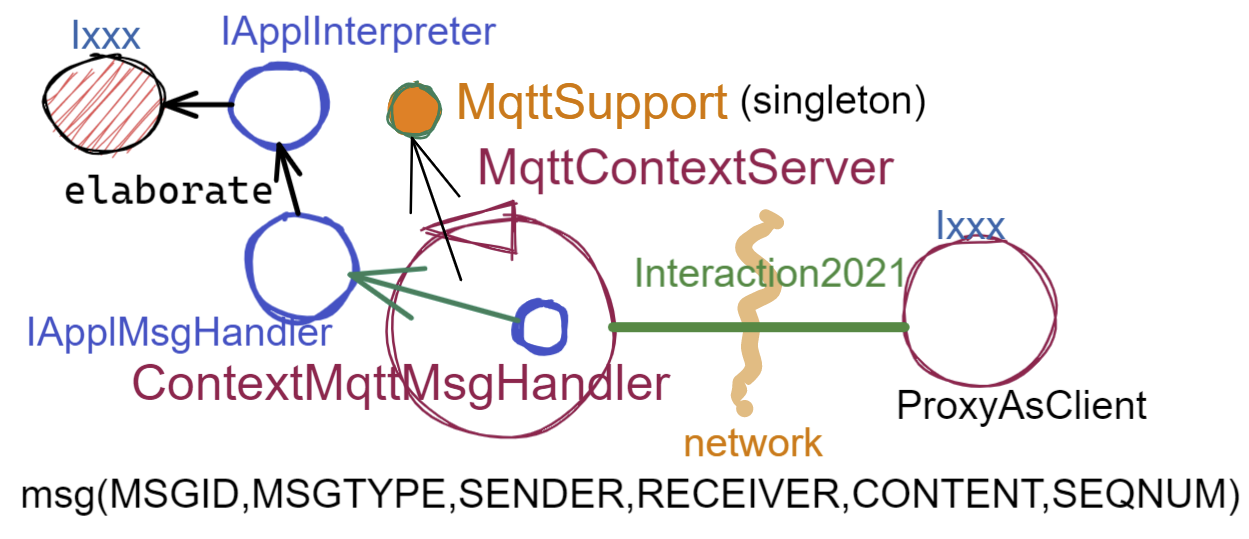
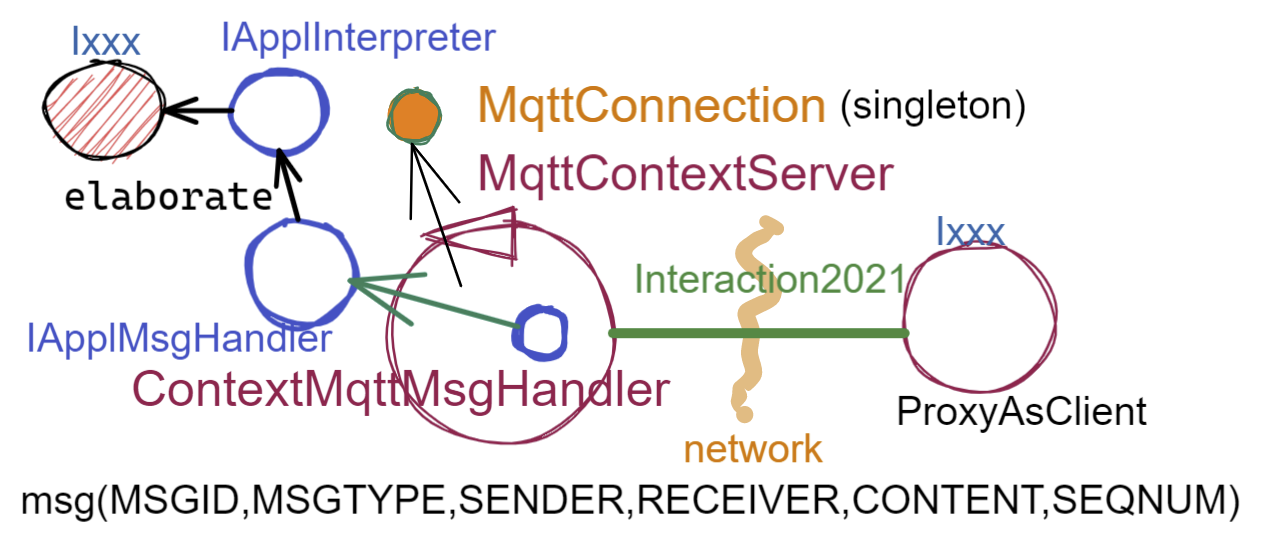
verso framework

Changed region(s): [[0.0, 0.0297, 0.9992, 0.9796], [0.0312, 0.0297, 0.2498, 0.4156], [0.1873, 0.4156, 0.2186, 0.564]]

diff --git a/it.unibo.enablerCleanArch/src/it/unibo/enablerCleanArch/supports/context/MqttContextServer.java b/it.unibo.enablerCleanArch/src/it/unibo/enablerCleanArch/supports/context/MqttContextServer.java
@@ -17,13 +17,12 @@ private String topic;
 
 	public MqttContextServer(String clientId, String topic) {
 		this.clientId = clientId;
-		this.topic    = topic;
-		ctxMsgHandler = new ContextMqttMsgHandler("ctxH");
-		
+		this.topic    = topic;		
 		ColorsOut.out("MqttContextServer CREATED");
 	}
 	@Override
 	public void activate() {
+		ctxMsgHandler = new ContextMqttMsgHandler("ctxH");
 		mqtt = MqttConnection.createSupport( clientId ); //, topic 
 		mqtt.connectToBroker(clientId,  RadarSystemConfig.mqttBrokerAddr);
 		//mqtt.subscribe(clientId, topic, ctxMsgHandler);   //?????

diff --git a/it.unibo.issLabStart/userDocs/iss22/source/VersoUnFramework.rst b/it.unibo.issLabStart/userDocs/iss22/source/VersoUnFramework.rst
@@ -56,6 +56,8 @@ che cambiano l'impostazione logica della interazione.
 
 In ogni caso, dovremo costruire le nostre astrazioni utilizzando le librerie disponibili.
 
+.. _librerieprotocolli:
+
 ------------------------------------
 Liberie di riferimento
 ------------------------------------
@@ -399,13 +401,61 @@ Il metodo di invio di una risposta è già realizzato dalla infrastruutura CoAP 
 	}
 
 
+Una volta realizzati i nuovi supporti per :ref:`Interaction2021<Interaction2021>`, possiamo
+fare in modo che la classe dei Proxy crei un supporto diverso per ogni protocollo, utilizzando
+il tipo appropriato di connessione.
+ 
 
+
+.. _ProxyAsClientEsteso:
+
+--------------------------------------------------------
+Estensione della classe :ref:`ProxyAsClient`
+--------------------------------------------------------
+
+.. code:: java
+
+  public class ProxyAsClient {
+  private Interaction2021 conn; 
+    public ProxyAsClient( 
+      String name, String host, String entry, ProtocolType protocol ){ 
+        ... 
+        setConnection(host, entry, protocol);
+      }  
+   
+Il metodo ``setConnection`` invocato dal costruttore crea un supporto diverso per ogni protocollo, utilizzando
+il tipo appropriato di connessione che implementa :ref:`Interaction2021<Interaction2021>`.
+
+
+.. code:: java
+
+  protected void setConnection( String host, String entry, 
+                ProtocolType protocol  ) throws Exception {
+    switch( protocol ) {
+    case tcp : {
+      int port = Integer.parseInt(entry);
+      int numOfAttempts = 10;
+      conn = TcpClientSupport.connect(host,port,numOfAttempts);  
+      break;
+    }
+    case coap : {
+      conn = new CoapConnection( host,entry );//entry is uri path
+      break;
+    }
+    case mqtt : {
+      conn = MqttConnection.getSupport();					
+      break;
+    }	
+    default :{
+      ColorsOut.outerr(name + " | Protocol unknown");
+    }
+  }
 
 ---------------------------------
 I ContextServer
 ---------------------------------
 
-Poichè dovremo definire un ContextServer per ogni protocollo, faccaimo in modo che ciascuno di essi
+Poichè dovremo definire un ContextServer per ogni protocollo, facciamo in modo che ciascuno di essi
 rispetti uno stesso contratto, che imponga metodi per attivare/disattivare il server e per
 aggiungere/rimuovere componenti di tipo :ref:`IApplMsgHandler<IApplMsgHandler>`:
 
@@ -492,7 +542,7 @@ IContextMsgHandler
 +++++++++++++++++++++++++++++++
 
 Ogni ContextServer si avvale di un gestore di sistema dei messaggi  come il 
-:ref:`ContextMsgHandler<ContextMsgHandler>` già definito per il TCP.
+:ref:`ContextMsgHandler<ContextMsgHandler>`.
 
 Introduciamo anche per questo gestore un contratto che imponga la implementazione di metodi per
 aggiungere/rimuovere oggetti applicativi di tipo :ref:`IApplMsgHandler<IApplMsgHandler>`
@@ -521,165 +571,32 @@ Osserviamo che il framework:
 
 :remark:`realizza una infrastruttura di comunicazione`
 
-:remark:`permette di creare componenti applicativi capaci di intergire in rete`
+:remark:`fornisce ai componenti applicativi la capacità di intergire in rete`
 
 :remark:`impone che ogni componente applicativo abbia un nome univoco`
 
- 
-Il lavoro che ora dobbiamo compiere ora consiste nel definire un Proxy client e un ContextServer relativo a ogni protocollo. 
-
-.. _libreriaProtocolli:
-
-
-
-.. _ProxyAsClientEsteso:
-
---------------------------------------------------------
-Estensione della classe :ref:`ProxyAsClient`
---------------------------------------------------------
- 
-Il metodo ``setConnection`` invocato dal costruttore crea un supporto diverso per ogni protocollo, ma 
-ciasuno realizza l'idea di connessione, implementando l'interf:ref:`Interaction2021<Interaction2021>`.
-
-
-.. code:: java
-
-  public class ProxyAsClient {
-  private Interaction2021 conn; 
-    public ProxyAsClient( 
-      String name, String host, String entry, ProtocolType protocol ){ 
-        ... 
-        setConnection(host, entry, protocol);
-      }  
-   ....
-  protected void setConnection( String host, String entry, 
-                ProtocolType protocol  ) throws Exception {
-    switch( protocol ) {
-    case tcp : {
-      int port = Integer.parseInt(entry);
-      int numOfAttempts = 10;
-      conn = TcpClientSupport.connect(host,port,numOfAttempts);  
-      break;
-    }
-    case coap : {
-      conn = new CoapSupport("CoapSupport_"+name, host,entry);//entry is uri path
-      break;
-    }
-    case mqtt : {
-      conn = MqttConnection.getSupport();					
-      break;
-    }	
-    default :{
-      ColorsOut.outerr(name + " | Protocol unknown");
-    }
-  }
-
-
-
----------------------------------------
-I nuovi ContextServer
----------------------------------------
 
 Abbiamo già introdotto :ref:`TcpContextServer` come implementazione di :ref:`IContext`
 che utilizza librerie per la gestione di *Socket*.
 
-La creazione di analoghi ContextServer per MQTT e CoAP parte dalla disponibilità 
-delle citate :ref:`librerie<libreriaProtocolli>`.
+La realizzazione di analoghi ContextServer per MQTT e CoAP si basa sulle citate :ref:`librerie<librerieprotocolli>`.
 
 +++++++++++++++++++++++++++++++++++++++
 ContextServer per MQTT
 +++++++++++++++++++++++++++++++++++++++
-
-Un ContextServer per MQTT richiede che un client di classe ``org.eclipse.paho.client.mqttv3.MqttClient`` 
-si connetta al nodo facendo una subscribe alla  *topic* specificata dal parametro ``entry``.
-
-Il server crea, al momento della costruzione:
-
-- un oggetto (``ctxMsgHandler``) per la gestione dei messaggi di sistema
-- un oggetto (``mqtt`` di tipo :ref:`MqttConnection` ) che realizza l'astrazione connessione implementando 
-  :ref:`Interaction2021`.
-
-
-.. image:: ./_static/img/Architectures/frameworkMqtt.PNG
-   :align: center  
-   :width: 70%
-
-La libreria `paho`_ (come molte altre) permette di gestire i messaggi inviati su questa entry-topic 
-mediamte un oggetto che implementa l'interfaccia  ``org.eclipse.paho.client.mqttv3.MqttCallback``.
-Il metodo che contiene il codice di gestione dei messaggi ha la signature che segue:
-
-.. code:: java
-
-    @Override  //from MqttCallback
-    public void messageArrived(String topic, MqttMessage message)   {
-      ...
-    }
-
-La rappresentazione in forma di String del messaggio ricevuto di tipo ``org.eclipse.paho.client.mqttv3.MqttMessage``
-deve avere la struttura introdotta in :ref:`msgApplicativi`:
-
-.. code:: java
-
-  msg(MSGID,MSGTYPE,SENDER,RECEIVER,CONTENT,SEQNUM)
-
-Pertanto deve essere possibile eseguire il mapping in un oggetto di tipo :ref:`ApplMessage` senza generare eccezioni:
-
-.. code:: java
-
-  ApplMessage msgInput = new ApplMessage(message.toString());
-
-Queste trasformazioni sono quindi di pertinenza del gestore di sistema dei messaggi in arrivo
-(``ctxMsgHandler``) che viene definito in modo da fungere anche da callBack MQTT in quanto implementa
-una interfaccia :ref:`IContextMsgHandlerMqtt` che estende  :ref:`IContextMsgHandler<IContextMsgHandler>`.
-
-
-%%%%%%%%%%%%%%%%%%%%%%%%%%%%%%%%%%%%%%%%%%%%%%%%%%%%%
-IContextMsgHandlerMqtt
-%%%%%%%%%%%%%%%%%%%%%%%%%%%%%%%%%%%%%%%%%%%%%%%%%%%%%
-
-.. code:: java
-
-  public interface IContextMsgHandlerMqtt 
-      extends IContextMsgHandler, IApplMsgHandlerMqtt{}
-
- 
-
-%%%%%%%%%%%%%%%%%%%%%%%%%%%%%%%%%%%%%%%%%%%%%%%%%%%%%
-ContextMqttMsgHandler
-%%%%%%%%%%%%%%%%%%%%%%%%%%%%%%%%%%%%%%%%%%%%%%%%%%%%%
-
-.. code:: java
-
-  public class ContextMqttMsgHandler extends ApplMsgHandler 
-                              implements IContextMsgHandlerMqtt{
-    ...
-  @Override
-  public void addComponent( String devName, IApplMsgHandler h) { ... }
-
-  @Override
-  public void elaborate( ApplMessage msg, Interaction2021 conn ) { ... }
-
-  @Override
-  public void elaborate(String message, Interaction2021 conn) { ... }
-
-  @Override
-  public void messageArrived(String topic, MqttMessage message){ ... }
-  }
-
-%%%%%%%%%%%%%%%%%%%%%%%%%%%%%%%%%%%%%%%%%%%%%%%%%%%%%
-MqttContextServer
-%%%%%%%%%%%%%%%%%%%%%%%%%%%%%%%%%%%%%%%%%%%%%%%%%%%%%
 
 .. code:: java
 
     public class MqttContextServer implements IContext{
     private MqttConnection mqtt ; //Singleton
     private IContextMsgHandlerMqtt ctxMsgHandler;
+    private String clientId;
+    private String topic;
 
     public MqttContextServer(String clientId, String topic) {
-      ...
-      ctxMsgHandler = new ContextMqttMsgHandler("ctxH");
-    }
+		  this.clientId = clientId;
+		  this.topic    = topic;		
+     }
       ...
 	  @Override
 	  public void activate() {
@@ -691,15 +608,122 @@ MqttContextServer
 	  public void addComponent(String name, IApplMsgHandler h) {
 		  ctxMsgHandler.addComponent(name, h);	
 	  }
-      ...
+    ...
 
-Il metodo ``activate`` del ContextServer per MQTT, crea il singleton ``MqttConnection`` 
-e lo utilizza per fare una subscribe sulla ``topic``.
-Il ``ctxMsgHandler`` come 
-gestore dei messaggi in arrivo.
 
-Infatti la libreria `paho`_ (come molte altre) gestisce i messaggi ricevuti attraverso una callback
-associata al 
+.. Un ContextServer per MQTT richiede che un client di classe ``org.eclipse.paho.client.mqttv3.MqttClient``  si connetta al nodo facendo una subscribe alla  *topic* specificata dal parametro ``entry``.
+
+Il server crea, al momento della attivazione:
+
+- un oggetto (``mqtt``) di tipo :ref:`MqttConnection<MqttConnection>` ) per le comunicazioni che viene 
+  subito utilizzato per connettersi al Broker;
+- un oggetto (``ctxMsgHandler``) per la gestione di sistema dei messaggi.
+ 
+
+
+.. image:: ./_static/img/Architectures/frameworkMqtt.PNG
+   :align: center  
+   :width: 70%
+
+
+La ``topic`` specificata nel costruttore  rappresenta la 'porta di ingresso' (entry-topic) dei messaggi 
+che il server gestisce delegandoli al ``ctxMsgHandler``.
+Questo gestore (a differenza di :ref:`ContextMsgHandler<ContextMsgHandler>`) implementa la interfaccia 
+``org.eclipse.paho.client.mqttv3.MqttCallback``  per la gestione
+asincrona dei messaggi in arrivo mediante il metodo:
+
+.. code:: java
+
+    @Override  //from MqttCallback
+    public void messageArrived(String topic, MqttMessage message)   {
+      	ApplMessage msgInput = new ApplMessage(message.toString());
+				elaborate(msgInput, MqttConnection.getSupport());
+
+    }
+
+Infatti ``ctxMsgHandler``  implementa l'interfaccia
+:ref:`IContextMsgHandlerMqtt` che estende :ref:`IContextMsgHandler` con :ref:`IApplMsgHandlerMqtt`
+
+.. code:: java
+
+  public interface IContextMsgHandlerMqtt 
+      extends IContextMsgHandler, IApplMsgHandlerMqtt{}
+
+%%%%%%%%%%%%%%%%%%%%%%%%%%%%%%%%%%%%%%%%%%%%%%%%%%%%%
+IContextMsgHandlerMqtt
+%%%%%%%%%%%%%%%%%%%%%%%%%%%%%%%%%%%%%%%%%%%%%%%%%%%%%
+
+.. code:: java
+
+  public interface IApplMsgHandlerMqtt 
+    extends IApplMsgHandler, MqttCallback{ }
+ 
+
+
+  
+
+%%%%%%%%%%%%%%%%%%%%%%%%%%%%%%%%%%%%%%%%%%%%%%%%%%%%%
+ContextMqttMsgHandler
+%%%%%%%%%%%%%%%%%%%%%%%%%%%%%%%%%%%%%%%%%%%%%%%%%%%%%
+
+La rappresentazione in forma di String del messaggio ricevuto di tipo ``org.eclipse.paho.client.mqttv3.MqttMessage``
+deve avere la struttura introdotta in :ref:`msgApplicativi`:
+
+.. code:: java
+
+  msg(MSGID,MSGTYPE,SENDER,RECEIVER,CONTENT,SEQNUM)
+
+Pertanto deve essere possibile eseguire il mapping in un oggetto di tipo :ref:`ApplMessage` senza generare eccezioni:
+
+
+
+Il gestore di sistema dei messaggi realizza 
+
+.. code:: java
+
+  public class ContextMqttMsgHandler extends ApplMsgHandler 
+                              implements IContextMsgHandlerMqtt{
+    ...
+  @Override
+  public void addComponent( String devName, IApplMsgHandler h) { ... }
+
+  @Override
+  public void elaborate( ApplMessage msg, Interaction2021 conn ) {
+    String dest          = msg.msgReceiver();
+		IApplMsgHandler  h   = handlerMap.get(dest);
+	  h.elaborate( msg , conn);	
+   }
+
+  @Override
+  public void elaborate(String message, Interaction2021 conn) { 
+			ApplMessage msg      = new ApplMessage(message);
+			elaborate( msg.toString(), conn);
+  }
+
+  @Override
+  public void messageArrived(String topic, MqttMessage message){ 
+      ApplMessage msgInput = new ApplMessage(message.toString());
+      elaborate(msgInput, MqttConnection.getSupport());
+  }
+
+
+
+.. code:: java
+
+  ApplMessage msgInput = new ApplMessage(message.toString());
+
+Queste trasformazioni sono quindi di pertinenza del gestore di sistema dei messaggi in arrivo
+(``ctxMsgHandler``) che viene definito in modo da fungere anche da callBack MQTT in quanto implementa
+una interfaccia :ref:`IContextMsgHandlerMqtt` che estende  :ref:`IContextMsgHandler<IContextMsgHandler>`.
+
+%%%%%%%%%%%%%%%%%%%%%%%%%%%%%%%%%%%%%%%%%%%%%%%%%%%%%
+MqttContextServer
+%%%%%%%%%%%%%%%%%%%%%%%%%%%%%%%%%%%%%%%%%%%%%%%%%%%%%
+
+ 
+
+
+ 
 
 .. code:: java
 
